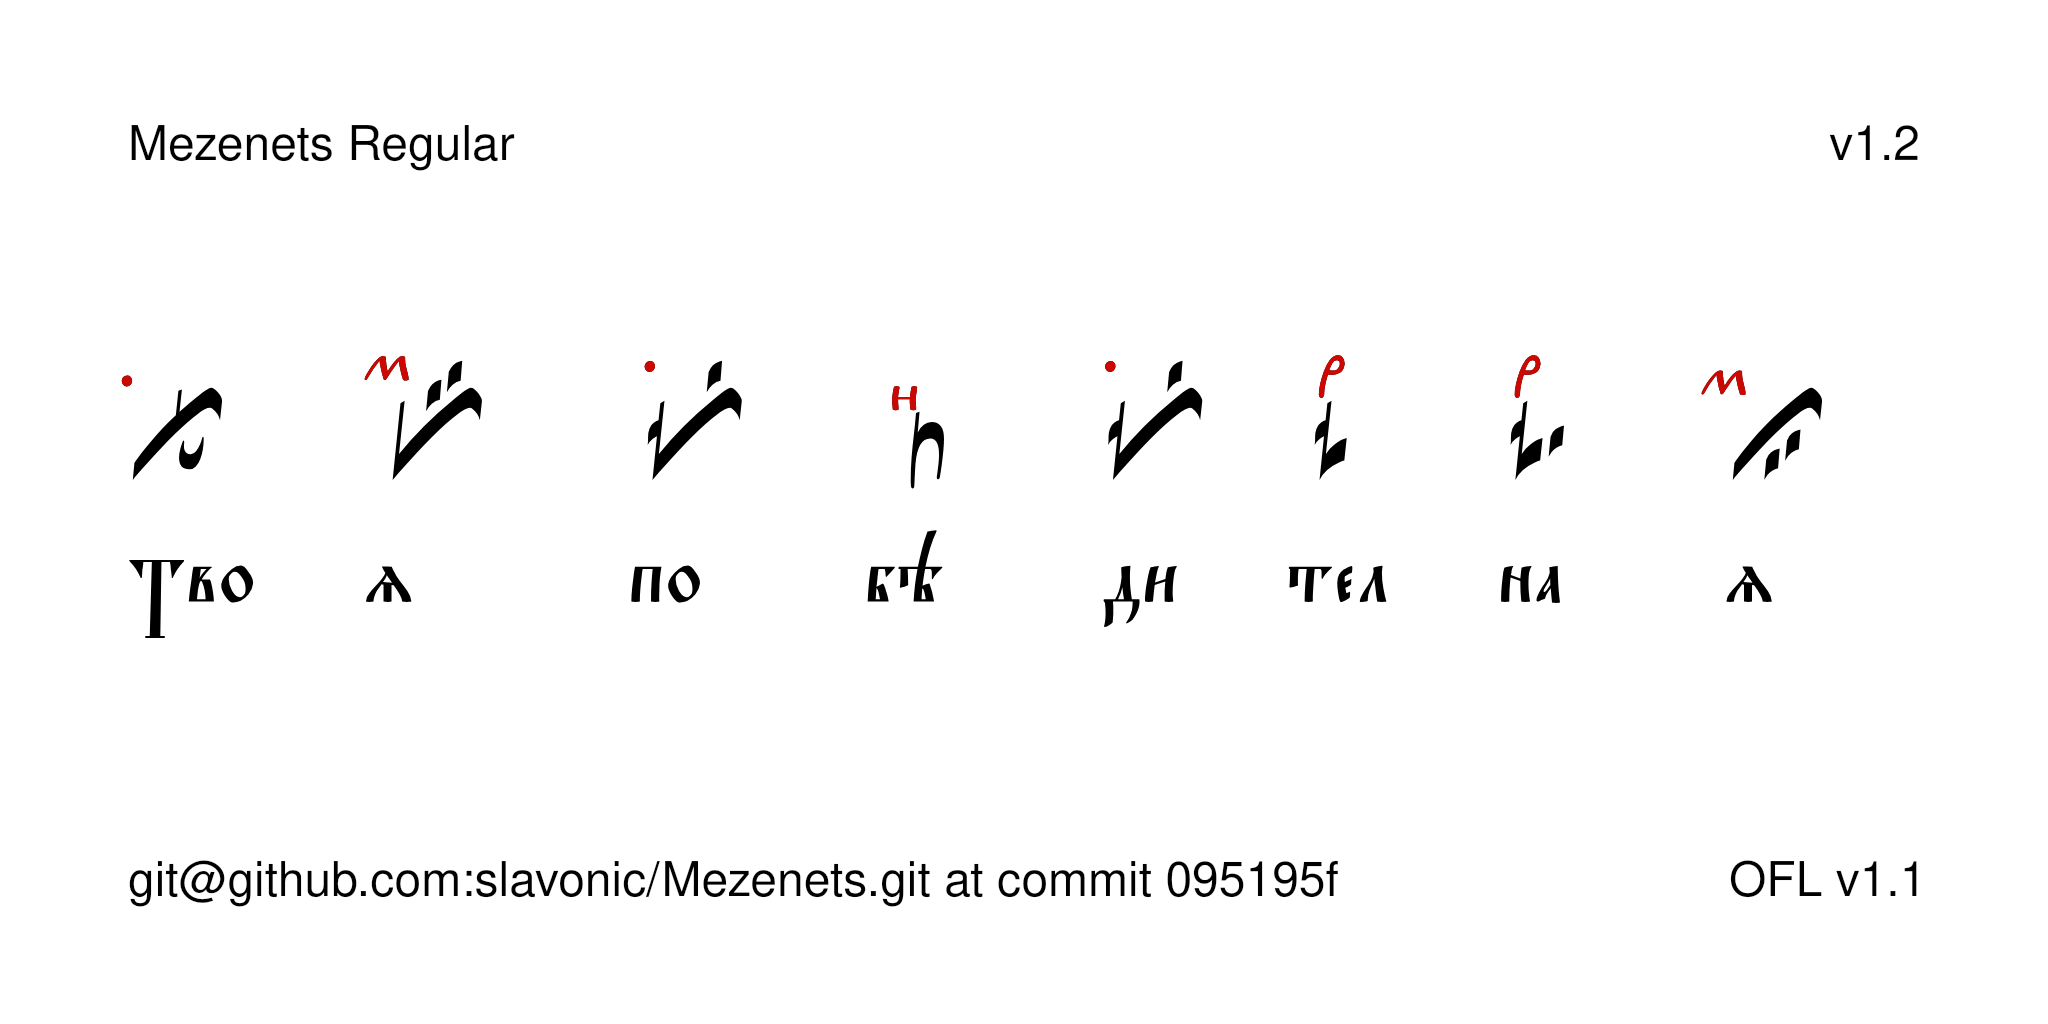
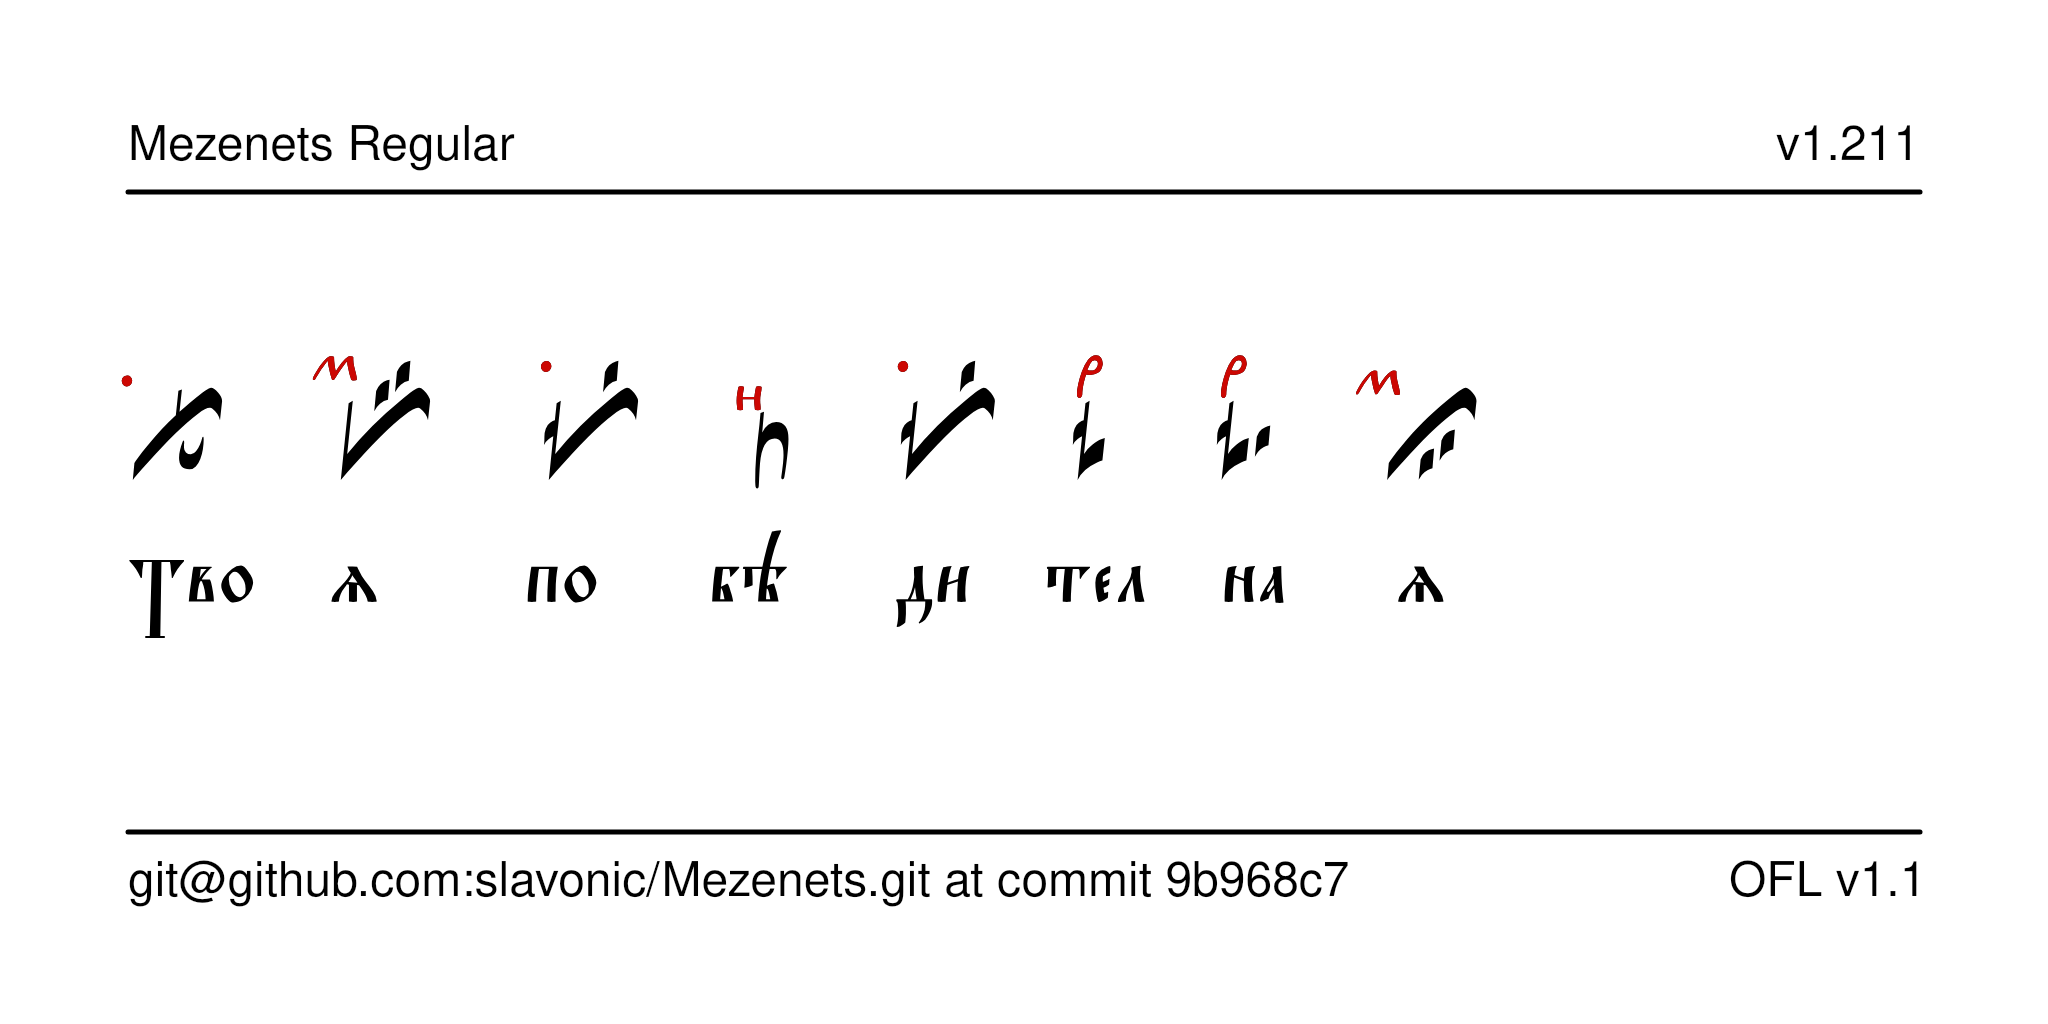
Fix typos

diff --git a/documentation/image2.py b/documentation/image2.py
@@ -105,7 +105,7 @@ def draw_main_text():
 
 # Divider lines
 def draw_divider_lines():
-    stroke(1)
+    stroke(0)
     strokeWidth(5)
     lineCap("round")
     line((MARGIN, HEIGHT - (MARGIN * 1.5)), (WIDTH - MARGIN, HEIGHT - (MARGIN * 1.5)))

diff --git a/README.md b/README.md
@@ -7,8 +7,8 @@ Mezenets is a font for typesetting Znamenny Notation with or without priznaki.
 Mezenets uses COLR/CPAL v.0. The cinnabar marks are rendered in #CC0803 and the
 neumes and black marks are black. The font provides a set of Cyrillic characters
 borrowed from the [Vilnius font](https://github.com/slavonic/Vilnius), but modified to fit the metrics of the neumes.
-Note that because black has been harcoded into the CPAL table, it is not possible
-to modify the text color. This will be fixed in a later version of the font that uses COLR/CPAL v.1.
+Note that because black has been hardcoded into the CPAL table, it is not possible
+to modify the text color in your text editing software. This will be fixed in a later version of the font that uses COLR/CPAL v.1.
 
 ## History
 
